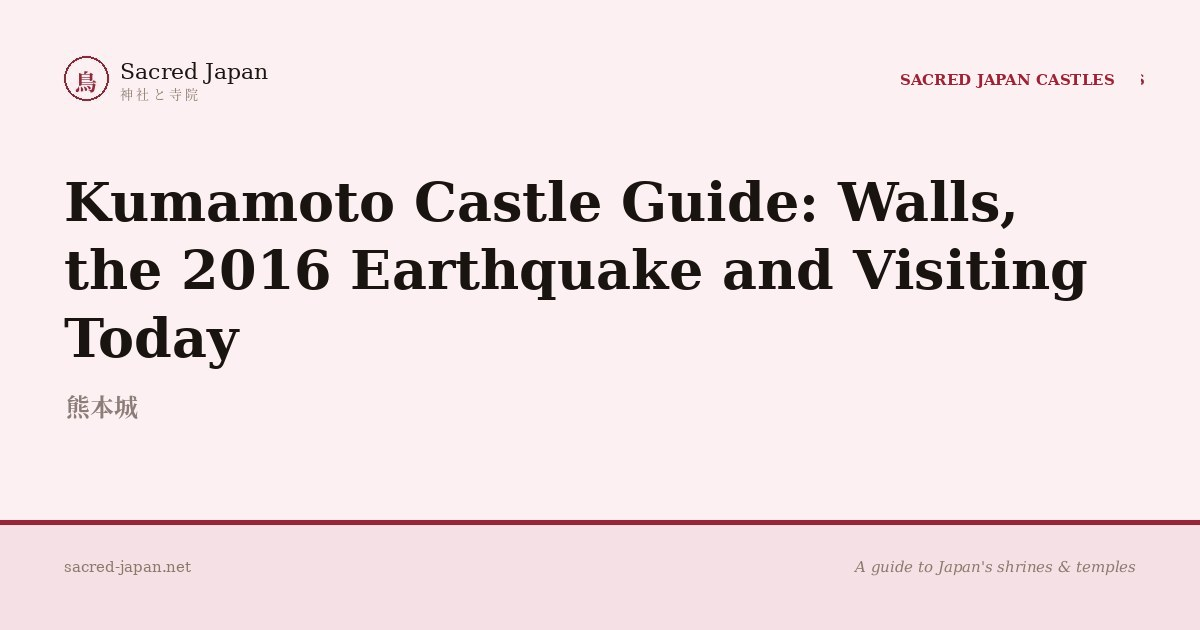
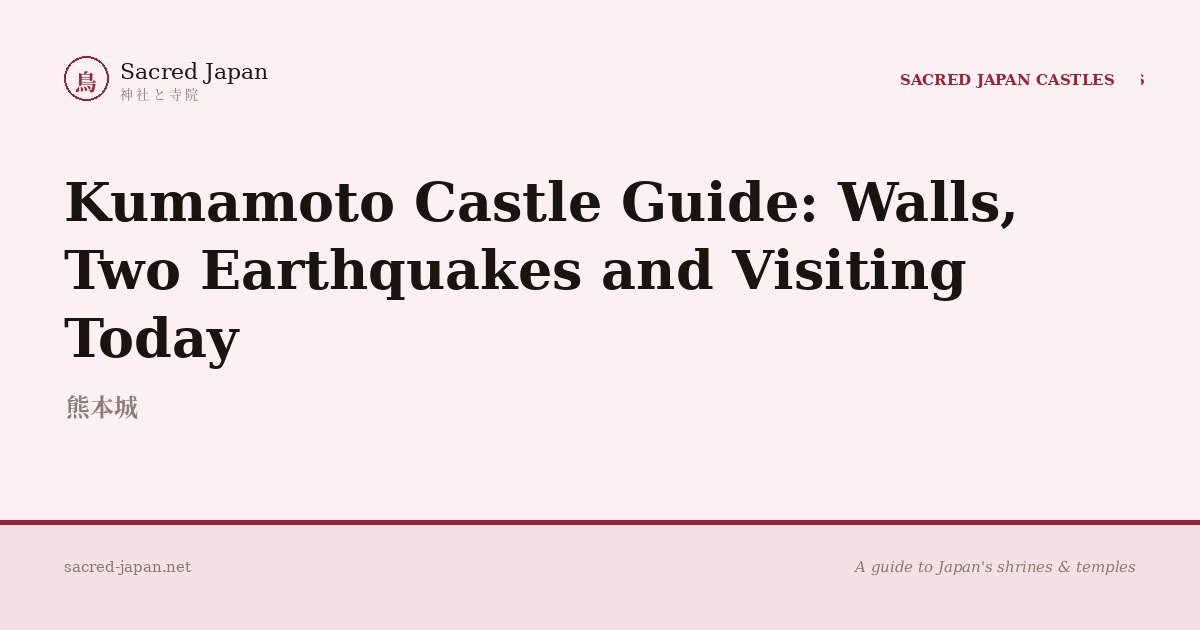
Kumamoto Castle: add July 2026 earthquake section, 6 photos, update title/FAQ/hubs
Claude-Session: https://claude.ai/code/session_01EpyvmJaAWoN52Wmz9c73wc

Changed region(s): [[0.0308, 0.3921, 0.925, 0.4825]]

diff --git a/guides/kumamoto-castle/index.html b/guides/kumamoto-castle/index.html
@@ -5,8 +5,8 @@
 <meta name="viewport" content="width=device-width, initial-scale=1.0">
 
 <!-- ── PRIMARY SEO ── -->
-<title>Kumamoto Castle Guide: Walls, the 2016 Earthquake and Visiting Today | Sacred Japan</title>
-<meta name="description" content="A licensed guide's guide to Kumamoto Castle: Kato Kiyomasa's curved stone walls, the 1877 fire, the 2016 earthquake, the long restoration, and what you can see and do when you visit.">
+<title>Kumamoto Castle Guide: Walls, Two Earthquakes and Visiting Today | Sacred Japan</title>
+<meta name="description" content="A licensed guide's guide to Kumamoto Castle: Kato Kiyomasa's curved stone walls, the 1877 fire, the earthquakes of 2016 and 2026, the long restoration, and what you can see and do when you visit.">
 <meta name="keywords" content="Kumamoto Castle, Kumamoto Castle guide, Kumamoto Castle earthquake, Kumamoto Castle restoration, Kato Kiyomasa, Kumamoto Castle admission, musha-gaeshi, Kyushu castle">
 <meta name="author" content="Sacred Japan">
 <link rel="canonical" href="https://sacred-japan.net/guides/kumamoto-castle/">
@@ -16,8 +16,8 @@
 <!-- ── OPEN GRAPH ── -->
 <meta property="og:type" content="article">
 <meta property="og:url" content="https://sacred-japan.net/guides/kumamoto-castle/">
-<meta property="og:title" content="Kumamoto Castle Guide: Walls, the 2016 Earthquake and Visiting Today">
-<meta property="og:description" content="A licensed guide's guide to Kumamoto Castle: Kato Kiyomasa's curved stone walls, the 1877 fire, the 2016 earthquake, the long restoration, and what you can see and do when you visit.">
+<meta property="og:title" content="Kumamoto Castle Guide: Walls, Two Earthquakes and Visiting Today">
+<meta property="og:description" content="A licensed guide's guide to Kumamoto Castle: Kato Kiyomasa's curved stone walls, the 1877 fire, the earthquakes of 2016 and 2026, the long restoration, and what you can see and do when you visit.">
 <meta property="og:image" content="https://sacred-japan.net/images/og/og-guides-kumamoto-castle.jpg">
 <meta property="og:image:width" content="1200">
 <meta property="og:image:height" content="630">
@@ -27,8 +27,8 @@
 <!-- ── TWITTER CARD ── -->
 <meta name="twitter:card" content="summary_large_image">
 <meta name="twitter:site" content="@sacredjapan">
-<meta name="twitter:title" content="Kumamoto Castle Guide: Walls, the 2016 Earthquake and Visiting Today">
-<meta name="twitter:description" content="A licensed guide's guide to Kumamoto Castle: Kato Kiyomasa's curved stone walls, the 1877 fire, the 2016 earthquake, the long restoration, and what you can see and do when you visit.">
+<meta name="twitter:title" content="Kumamoto Castle Guide: Walls, Two Earthquakes and Visiting Today">
+<meta name="twitter:description" content="A licensed guide's guide to Kumamoto Castle: Kato Kiyomasa's curved stone walls, the 1877 fire, the earthquakes of 2016 and 2026, the long restoration, and what you can see and do when you visit.">
 <meta name="twitter:image" content="https://sacred-japan.net/images/og/og-guides-kumamoto-castle.jpg">
 
 <!-- ── STRUCTURED DATA: Article ── -->
@@ -36,8 +36,8 @@
 {
   "@context": "https://schema.org",
   "@type": "Article",
-  "headline": "Kumamoto Castle Guide: Walls, the 2016 Earthquake and Visiting Today",
-  "description": "A licensed guide's guide to Kumamoto Castle: Kato Kiyomasa's curved stone walls, the 1877 fire, the 2016 earthquake, the long restoration, and what you can see and do when you visit.",
+  "headline": "Kumamoto Castle Guide: Walls, Two Earthquakes and Visiting Today",
+  "description": "A licensed guide's guide to Kumamoto Castle: Kato Kiyomasa's curved stone walls, the 1877 fire, the earthquakes of 2016 and 2026, the long restoration, and what you can see and do when you visit.",
   "url": "https://sacred-japan.net/guides/kumamoto-castle/",
   "mainEntityOfPage": "https://sacred-japan.net/guides/kumamoto-castle/",
   "image": "https://sacred-japan.net/images/og/og-guides-kumamoto-castle.jpg",
@@ -88,10 +88,10 @@
     },
     {
       "@type": "Question",
-      "name": "Is Kumamoto Castle open after the earthquake?",
+      "name": "Is Kumamoto Castle open after the July 2026 earthquake?",
       "acceptedAnswer": {
         "@type": "Answer",
-        "text": "Yes, parts of it are. The main keep has been restored and is open, and a tour route lets you walk the grounds. Some structures are still closed or open only on certain days, so check the official site before your visit."
+        "text": "The castle reopened on August 13, 2026, 16 days after the July 28 earthquake. The earthquake collapsed stone walls in 40 places and cracked floors in the main keep, so some areas may be closed or restricted. Please check the official site before your visit."
       }
     },
     {
@@ -99,7 +99,7 @@
       "name": "Is the keep original?",
       "acceptedAnswer": {
         "@type": "Answer",
-        "text": "No. The main keep is a concrete reconstruction from 1960. The original burned in 1877. Some other structures are original and were damaged in 2016, and some are rebuilt."
+        "text": "No. The main keep is a concrete reconstruction from 1960. The original burned in 1877. Some other structures are original and were damaged in 2016, and some are rebuilt. Both the 2016 and 2026 earthquakes damaged the site."
       }
     },
     {
@@ -107,7 +107,7 @@
       "name": "When will the restoration be finished?",
       "acceptedAnswer": {
         "@type": "Answer",
-        "text": "The city's current target is 2052, after a delay announced in 2022. The original target was 2037."
+        "text": "The target set in 2022 is 2052, delayed from 2037. After the July 2026 earthquake, officials said it could be delayed again but could not yet say by how much."
       }
     },
     {
@@ -974,6 +974,7 @@ article ul li, article ol li { font-size: 19px; }
       <li><a href="#history">Kato Kiyomasa's Fortress</a></li>
       <li><a href="#walls">The Walls Called Warrior Repellers</a></li>
       <li><a href="#quake">April 2016</a></li>
+      <li><a href="#again">July 2026: Shaken Again</a></li>
       <li><a href="#restoration">A Restoration You Can Walk Through</a></li>
       <li><a href="#visit">Visiting Kumamoto Castle</a></li>
       <li><a href="#stay">Making It a Day Trip</a></li>
@@ -985,24 +986,58 @@ article ul li, article ol li { font-size: 19px; }
   <article>
 
     <section id="opening">
-      <p class="opening">As a licensed guide, I tell guests that Kumamoto is the castle where you can see two eras at once. The stone walls are curved like the inside of a bowl, so steeply that they were nicknamed "warrior repellers." Many of them were also shaken apart in April 2016, and today you can walk past the numbered stones waiting to go back. It is one of Japan's Three Great Castles, and one of its most honest.</p>
-      <p>This guide covers Kato Kiyomasa's design, the fire of 1877, the 2016 earthquake, how the restoration works, and what to know before you go.</p>
+      <p class="opening">As a licensed guide, I tell guests that Kumamoto is the castle where you can see two eras at once. The stone walls are curved like the inside of a bowl, so steeply that they were nicknamed "warrior repellers." Many of them were shaken apart in April 2016, and again in July 2026, and today you can walk past the numbered stones waiting to go back. It is one of Japan's Three Great Castles, and one of its most honest.</p>
+      <p>This guide covers Kato Kiyomasa's design, the fire of 1877, the earthquakes of 2016 and 2026, how the restoration works, and what to know before you go.</p>
     </section>
 
     <h2 id="history">Kato Kiyomasa's Fortress<span class="h2-jp">歴史</span></h2>
     <p>Kato Kiyomasa, a retainer of Toyotomi Hideyoshi, became lord of Higo Province in 1588. Between 1601 and 1607 he expanded the castle on the Chausuyama hill into a huge complex with 49 turrets, 18 turret gates and 29 smaller gates, according to Wikipedia. After the Kato family was dispossessed by the shogunate, the Hosokawa clan took over in 1632 and held the castle until 1871.</p><p>The castle was also known as Ginkgo Castle, because many ginkgo trees were planted when it was built, according to GLTJP. For the wider picture of the twelve original keeps, see my <a class="inline-link" href="/castles/" onclick="trackEvent('click','internal','guide_kumamoto_to_castles')">castles overview</a>, and for the stories behind four great castles, <a class="inline-link" href="/guides/best-castles-japan/" onclick="trackEvent('click','internal','guide_kumamoto_to_bestcastles')">The Best Castles in Japan</a>.</p>
 
+    <figure style="margin:28px auto;max-width:560px;">
+      <picture><source srcset="/images/kumamoto-towers.webp" type="image/webp"><img src="/images/kumamoto-towers.jpg" alt="The small keep, the Uto turret and the large keep of Kumamoto Castle, with black walls and layered roofs" width="840" height="560" loading="lazy" style="width:100%;height:auto;border-radius:4px;display:block;"></picture>
+      <figcaption style="font-size:13px;color:var(--enshu);margin-top:10px;text-align:center;line-height:1.6;">The small keep, the Uto turret and the large keep, photographed in 2014, before the earthquakes.<br>Photo: Nagoya Taro, <a href="https://creativecommons.org/licenses/by-sa/3.0/" target="_blank" rel="noopener" style="color:var(--enshu);">CC BY-SA 3.0</a>, via Wikimedia Commons (cropped and resized)</figcaption>
+    </figure>
+
     <h2 id="walls">The Walls Called Warrior Repellers<span class="h2-jp">武者返し</span></h2>
     <p>The famous feature is the stone wall. It starts with a gentle slope and curves upward until it is nearly vertical, which is why it is called <em>musha-gaeshi</em>, "warrior repeller." The idea is simple: a climber who starts easily runs out of footholds near the top. Wikipedia also lists wooden overhangs and rock falls among the defenses. The winding approach paths add to the effect.</p><p>The castle held out in 1877, during the Satsuma Rebellion, when Saigo Takamori's forces besieged it. A fire then destroyed the keep and other buildings. Saigo is quoted in Wikipedia as saying, "I did not lose to the Meiji government. I lost to Lord Kiyomasa." The present main keep is a concrete reconstruction from 1960, and the castle was designated a Special Historic Site in 1955.</p>
+
+    <div style="display:flex;flex-wrap:wrap;gap:20px;justify-content:center;align-items:flex-start;margin:32px 0;">
+      <figure style="margin:0;flex:1 1 260px;max-width:420px;">
+      <picture><source srcset="/images/kumamoto-keep-wall.webp" type="image/webp"><img src="/images/kumamoto-keep-wall.jpg" alt="The keep of Kumamoto Castle rising above a flared stone wall under a blue sky" width="840" height="560" loading="lazy" style="width:100%;height:auto;border-radius:4px;display:block;"></picture>
+      <figcaption style="font-size:13px;color:var(--enshu);margin-top:10px;text-align:center;line-height:1.6;">The keep above the stone walls, photographed in 2009, before the earthquakes.<br>Photo: 663highland, <a href="https://creativecommons.org/licenses/by-sa/3.0/" target="_blank" rel="noopener" style="color:var(--enshu);">CC BY-SA 3.0</a>, via Wikimedia Commons (cropped and resized)</figcaption>
+    </figure>
+      <figure style="margin:0;flex:1 1 260px;max-width:420px;">
+      <picture><source srcset="/images/kumamoto-turret-wall.webp" type="image/webp"><img src="/images/kumamoto-turret-wall.jpg" alt="A turret of Kumamoto Castle standing on a tall stone base that flares outward at the bottom" width="840" height="560" loading="lazy" style="width:100%;height:auto;border-radius:4px;display:block;"></picture>
+      <figcaption style="font-size:13px;color:var(--enshu);margin-top:10px;text-align:center;line-height:1.6;">A turret on a tall, flared stone base, photographed in 2009, before the earthquakes.<br>Photo: 663highland, <a href="https://creativecommons.org/licenses/by-sa/3.0/" target="_blank" rel="noopener" style="color:var(--enshu);">CC BY-SA 3.0</a>, via Wikimedia Commons (cropped and resized)</figcaption>
+    </figure>
+    </div>
 
     <h2 id="quake">April 2016<span class="h2-jp">熊本地震</span></h2>
     <p>In April 2016, a series of earthquakes struck Kumamoto, with the strongest reaching seismic intensity 7. All 13 Important Cultural Property structures at the castle were damaged. Most of the roof tiles on the top floor of the keep fell, and roughly a third of the stone walls collapsed. Wikipedia notes that the keep itself survived with little structural damage.</p><p>The image most people remember is the Iidamaru five-story turret, whose lower walls collapsed but which kept standing, held up by its corner stones. Repair work began in June 2016, and new roof ornaments (shachihoko) were installed on the keep in 2018.</p>
 
+    <figure style="margin:28px auto;max-width:560px;">
+      <picture><source srcset="/images/kumamoto-keep-group.webp" type="image/webp"><img src="/images/kumamoto-keep-group.jpg" alt="Visitors gathered at the foot of the main keep of Kumamoto Castle, dwarfed by the stone base" width="840" height="560" loading="lazy" style="width:100%;height:auto;border-radius:4px;display:block;"></picture>
+      <figcaption style="font-size:13px;color:var(--enshu);margin-top:10px;text-align:center;line-height:1.6;">Visitors at the foot of the main keep, photographed in 2014, before the earthquakes.<br>Photo: Fraxinus2, <a href="https://creativecommons.org/licenses/by-sa/4.0/" target="_blank" rel="noopener" style="color:var(--enshu);">CC BY-SA 4.0</a>, via Wikimedia Commons (cropped and resized)</figcaption>
+    </figure>
+
+    <h2 id="again">July 2026: Shaken Again<span class="h2-jp">2026年7月</span></h2>
+    <p>On July 28, 2026, a magnitude 7.1 earthquake (preliminary figure) struck Kumamoto Prefecture, with its epicenter near Uki and a maximum intensity of 7 in Uki and Hikawa, according to GIGAZINE's summary of the JMA announcement. The castle was closed for 16 days. According to the city's castle office, as reported by The Star, stone walls collapsed in 40 locations and structural damage was confirmed in 11 places, including cracked floors in the main keep.</p><p>The castle reopened on August 13, 2026, with about 200 people lined up before the gates opened. Officials told The Art Newspaper that the 2052 completion date could be delayed, but that they could not yet estimate by how much. I have not seen a detailed list of what is open, so please check current access before you plan your visit.</p>
+
+    <figure style="margin:28px auto;max-width:560px;">
+      <picture><source srcset="/images/kumamoto-collapse-2026.webp" type="image/webp"><img src="/images/kumamoto-collapse-2026.jpg" alt="A collapsed section of stone wall at Kumamoto Castle with fallen stones lying on the grass below" width="840" height="560" loading="lazy" style="width:100%;height:auto;border-radius:4px;display:block;"></picture>
+      <figcaption style="font-size:13px;color:var(--enshu);margin-top:10px;text-align:center;line-height:1.6;">Collapsed stone wall at the Nishi-demaru after the July 2026 earthquake, photographed on August 29, 2026.<br>Photo: Katorisi, <a href="https://creativecommons.org/licenses/by-sa/4.0/" target="_blank" rel="noopener" style="color:var(--enshu);">CC BY-SA 4.0</a>, via Wikimedia Commons (cropped and resized)</figcaption>
+    </figure>
+
     <h2 id="restoration">A Restoration You Can Walk Through<span class="h2-jp">復旧</span></h2>
-    <p>Nobody can rebuild a stone wall in a few years. The stones are being numbered, stored and put back one by one, using older techniques so that the walls return to their earlier forms. In 2022, the mayor announced that the full restoration would be completed in 2052 instead of 2037, a delay of 15 years.</p><p>As of early 2025, GLTJP says the main keep, the Kenmotsu turret and a long wall have been restored, while the Honmaru Palace Great Hall, the Uto turret and the Iidamaru turret are still under restoration. The tour route has explanation boards that show photos from before the quake next to the present scene, so you see exactly what changed. It is the one castle where I tell guests not to rush: the work in progress is part of the visit.</p>
+    <p>Nobody can rebuild a stone wall in a few years. The stones are being numbered, stored and put back one by one, using older techniques so that the walls return to their earlier forms. In 2022, the mayor announced that the full restoration would be completed in 2052 instead of 2037, a delay of 15 years. The 2026 earthquake may push that date back again.</p><p>Before the 2026 quake, as of early 2025, GLTJP said the main keep, the Kenmotsu turret and a long wall had been restored, while the Honmaru Palace Great Hall, the Uto turret and the Iidamaru turret were still under restoration. The tour route has explanation boards that show photos from before the earthquake next to the present scene, so you see exactly what changed. It is the one castle where I tell guests not to rush: the work in progress is part of the visit.</p>
 
     <h2 id="visit">Visiting Kumamoto Castle<span class="h2-jp">アクセス</span></h2>
-    <ul class="practical-list"><li><strong>Getting there:</strong> From Kumamoto Station, the streetcar, the Shiromegurin sightseeing loop bus or a local bus all reach the castle area in roughly 20 to 30 minutes, followed by a walk of about 10 minutes. From Aso Kumamoto Airport, an airport limousine bus takes about an hour.</li><li><strong>Hours:</strong> One recent guide lists 9:00 to 17:00, closed December 29.</li><li><strong>Admission:</strong> The same guide lists 800 yen for adults and high school students, and 300 yen for elementary and junior high students. Preschool children are free.</li><li><strong>What is open:</strong> The main keep houses a history museum, with a view over the city from the top floor. Some structures are closed or open only on set days while work continues, for example the Uto turret on the second Sunday of each month, according to GLTJP. Please check current access before you go.</li><li><strong>Seasons:</strong> About 800 cherry trees, best from late March to early April, lit at night. Autumn color usually peaks from mid-November to early December.</li><li><strong>Nearby:</strong> The Hosokawa Gyobu-tei residence, a traditional wooden mansion with a Japanese garden, is in nearby Sannomaru Park.</li></ul><p>Prices, hours and the open areas change with the work, so please confirm on the official castle site before you go.</p>
+    <ul class="practical-list"><li><strong>Getting there:</strong> From Kumamoto Station, the streetcar, the Shiromegurin sightseeing loop bus or a local bus all reach the castle area in roughly 20 to 30 minutes, followed by a walk of about 10 minutes. From Aso Kumamoto Airport, an airport limousine bus takes about an hour.</li><li><strong>Hours:</strong> One recent guide lists 9:00 to 17:00, closed December 29.</li><li><strong>Admission:</strong> The same guide lists 800 yen for adults and high school students, and 300 yen for elementary and junior high students. Preschool children are free.</li><li><strong>What is open:</strong> The main keep houses a history museum, with a view over the city from the top floor. Some structures are closed or open only on set days while work continues, for example the Uto turret on the second Sunday of each month, according to GLTJP, and the July 2026 earthquake may have changed this. Please check current access before you go.</li><li><strong>Seasons:</strong> About 800 cherry trees, best from late March to early April, lit at night. Autumn color usually peaks from mid-November to early December.</li><li><strong>Nearby:</strong> The Hosokawa Gyobu-tei residence, a traditional wooden mansion with a Japanese garden, is in nearby Sannomaru Park.</li></ul><p>Prices, hours and the open areas change with the work, so please confirm on the official castle site before you go.</p>
+
+    <figure style="margin:28px auto;max-width:560px;">
+      <picture><source srcset="/images/kumamoto-keep-plaza.webp" type="image/webp"><img src="/images/kumamoto-keep-plaza.jpg" alt="The main keep and a small turret of Kumamoto Castle seen across a gravel plaza, with a mascot photo spot in front" width="840" height="560" loading="lazy" style="width:100%;height:auto;border-radius:4px;display:block;"></picture>
+      <figcaption style="font-size:13px;color:var(--enshu);margin-top:10px;text-align:center;line-height:1.6;">The main keep and small keep seen across the plaza, photographed in 2014, with a Hikomaru-kun photo spot in front.<br>Photo: そらみみ (Soramimi), <a href="https://creativecommons.org/licenses/by-sa/3.0/" target="_blank" rel="noopener" style="color:var(--enshu);">CC BY-SA 3.0</a>, via Wikimedia Commons (cropped and resized)</figcaption>
+    </figure>
 
     <h2 id="stay">Making It a Day Trip<span class="h2-jp">滞在</span></h2>
     <p>Kumamoto works well as a half-day stop on a Kyushu trip, and it is close to the Shinkansen. Give yourself time for the castle grounds and the nearby garden.</p>
@@ -1017,16 +1052,16 @@ article ul li, article ol li { font-size: 19px; }
         <div class="faq-answer">One recent guide lists 800 yen for adults and high school students, and 300 yen for elementary and junior high students, with preschoolers free. Please confirm on the official site, because prices and open areas can change.</div>
     </details>
     <details class="faq-item">
-        <summary>Is Kumamoto Castle open after the earthquake?</summary>
-        <div class="faq-answer">Yes, parts of it are. The main keep has been restored and is open, and a tour route lets you walk the grounds. Some structures are still closed or open only on certain days, so check the official site before your visit.</div>
+        <summary>Is Kumamoto Castle open after the July 2026 earthquake?</summary>
+        <div class="faq-answer">The castle reopened on August 13, 2026, 16 days after the July 28 earthquake. The earthquake collapsed stone walls in 40 places and cracked floors in the main keep, so some areas may be closed or restricted. Please check the official site before your visit.</div>
     </details>
     <details class="faq-item">
         <summary>Is the keep original?</summary>
-        <div class="faq-answer">No. The main keep is a concrete reconstruction from 1960. The original burned in 1877. Some other structures are original and were damaged in 2016, and some are rebuilt.</div>
+        <div class="faq-answer">No. The main keep is a concrete reconstruction from 1960. The original burned in 1877. Some other structures are original and were damaged in 2016, and some are rebuilt. Both the 2016 and 2026 earthquakes damaged the site.</div>
     </details>
     <details class="faq-item">
         <summary>When will the restoration be finished?</summary>
-        <div class="faq-answer">The city's current target is 2052, after a delay announced in 2022. The original target was 2037.</div>
+        <div class="faq-answer">The target set in 2022 is 2052, delayed from 2037. After the July 2026 earthquake, officials said it could be delayed again but could not yet say by how much.</div>
     </details>
     <details class="faq-item">
         <summary>How long should I spend at Kumamoto Castle?</summary>
@@ -1076,7 +1111,7 @@ article ul li, article ol li { font-size: 19px; }
 
 <!-- ── SOURCES NOTE ── -->
 <div class="sources-note">
-  Sources verified at time of writing: <a href="https://www.gltjp.com/en/article/item/20888/" target="_blank" rel="noopener" style="color:var(--beni);text-decoration:underline;">GLTJP (Kumamoto Castle Travel Guide)</a>, <a href="https://en.wikipedia.org/wiki/Kumamoto_Castle" target="_blank" rel="noopener" style="color:var(--beni);text-decoration:underline;">Wikipedia (Kumamoto Castle)</a>, <a href="https://castle.kumamoto-guide.jp/en/spot/" target="_blank" rel="noopener" style="color:var(--beni);text-decoration:underline;">Kumamoto Castle Reconstruction Tour Route</a>, <a href="https://www.nippon.com/en/japan-video/vi004002/kumamoto-castle-comes-back-to-life-touring-the-grounds-during-reconstruction.html" target="_blank" rel="noopener" style="color:var(--beni);text-decoration:underline;">Nippon.com (Touring the Grounds During Reconstruction)</a>. Hours, prices and availability change, so please confirm before you go.
+  Sources verified at time of writing: <a href="https://www.theartnewspaper.com/2026/07/31/japans-400-year-old-kumamoto-castle-damaged-by-71-magnitude-earthquake" target="_blank" rel="noopener" style="color:var(--beni);text-decoration:underline;">The Art Newspaper (July 2026 earthquake)</a>, <a href="https://www.thestar.com.my/aseanplus/aseanplus-news/2026/08/13/kumamoto-castle-reopens-16-days-after-major-earthquake" target="_blank" rel="noopener" style="color:var(--beni);text-decoration:underline;">The Star (reopening)</a>, <a href="https://gigazine.net/gsc_news/en/20260728-earthquake-kumamoto/" target="_blank" rel="noopener" style="color:var(--beni);text-decoration:underline;">GIGAZINE (earthquake summary)</a>, <a href="https://www.gltjp.com/en/article/item/20888/" target="_blank" rel="noopener" style="color:var(--beni);text-decoration:underline;">GLTJP (Kumamoto Castle Travel Guide)</a>, <a href="https://en.wikipedia.org/wiki/Kumamoto_Castle" target="_blank" rel="noopener" style="color:var(--beni);text-decoration:underline;">Wikipedia (Kumamoto Castle)</a>, <a href="https://castle.kumamoto-guide.jp/en/spot/" target="_blank" rel="noopener" style="color:var(--beni);text-decoration:underline;">Kumamoto Castle Reconstruction Tour Route</a>, <a href="https://www.nippon.com/en/japan-video/vi004002/kumamoto-castle-comes-back-to-life-touring-the-grounds-during-reconstruction.html" target="_blank" rel="noopener" style="color:var(--beni);text-decoration:underline;">Nippon.com (Touring the Grounds During Reconstruction)</a>. Hours, prices and availability change, so please confirm before you go.
 </div>
 
 <!-- ── FOOTER ── -->

diff --git a/guides/index.html b/guides/index.html
@@ -121,7 +121,7 @@
       {"@type":"ListItem","position":68,"url":"https://sacred-japan.net/guides/wajima-nuri/","name":"Wajima-nuri: Japan's Lacquerware and the Road Back"},
       {"@type":"ListItem","position":69,"url":"https://sacred-japan.net/guides/himeji-castle/","name":"Himeji Castle Guide: History, Maze Defenses and Visiting Tips"},
       {"@type":"ListItem","position":70,"url":"https://sacred-japan.net/guides/matsumoto-castle/","name":"Matsumoto Castle Guide: The Black Castle, Its History and Visiting Tips"},
-      {"@type":"ListItem","position":71,"url":"https://sacred-japan.net/guides/kumamoto-castle/","name":"Kumamoto Castle Guide: Walls, the 2016 Earthquake and Visiting Today"}
+      {"@type":"ListItem","position":71,"url":"https://sacred-japan.net/guides/kumamoto-castle/","name":"Kumamoto Castle Guide: Walls, Two Earthquakes and Visiting Today"}
     ]
   }
 }
@@ -1141,7 +1141,7 @@ main { max-width: 1100px; }
     <a class="hub-card" href="/guides/kumamoto-castle/" onclick="trackEvent('click','internal','guides_hub_to_kumamoto_castle')" style="border-top:3px solid #1a2a4a;">
       <div class="hub-card-label" style="color:#1a2a4a;">CASTLES ／ 熊本城</div>
       <div class="hub-card-title">🏯 Kumamoto Castle: The Fortress Being Rebuilt →</div>
-      <div class="hub-card-desc">Kato Kiyomasa's curved walls, the 2016 earthquake, the long restoration, and what you can visit today.</div>
+      <div class="hub-card-desc">Kato Kiyomasa's curved walls, the earthquakes of 2016 and 2026, the long restoration, and what you can visit today.</div>
     </a>
 
   </div>

diff --git a/castles/index.html b/castles/index.html
@@ -823,7 +823,7 @@ footer { padding: 40px 24px; }
     <a href="/guides/kumamoto-castle/" onclick="trackEvent('click','internal','castles_top_to_kumamoto')" style="display:block;margin-top:14px;padding:26px 30px;background:var(--washi);border:1px solid var(--border-strong);border-left:3px solid #1a2a4a;text-decoration:none;border-radius:2px;">
       <div style="font-family:'Noto Serif JP',serif;font-size:10px;letter-spacing:3px;color:#1a2a4a;margin-bottom:6px;">SACRED JAPAN ／ CASTLE GUIDE</div>
       <div style="font-family:'Shippori Mincho',serif;font-size:17px;color:var(--sumi);margin-bottom:4px;">🏯 Kumamoto Castle: The Fortress Being Rebuilt →</div>
-      <div style="font-size:14px;color:var(--enshu);line-height:1.6;">Curved warrior-repelling walls, the 2016 earthquake, and a restoration you can walk through. History and how to visit.</div>
+      <div style="font-size:14px;color:var(--enshu);line-height:1.6;">Curved warrior-repelling walls, two earthquakes, and a restoration you can walk through. History and how to visit.</div>
     </a>
   </section>
 

diff --git a/CLAUDE.md b/CLAUDE.md
@@ -158,3 +158,5 @@
 - 【未対応】インデックス登録（guides/himeji-castle/、/castles/）。次の候補：松本城、熊本城、犬山城、彦根城、二条城（京都）
 - 新規：guides/matsumoto-castle/（Wikipedia／GLTJP／Go Nagano／Nagano Tabiで裏取り。料金はGLTJPの電子券1,200円・紙1,300円を「最近のガイド」として記載、公式確認を促す表記）。ヒーローはbest-castles-japanと同じManishprabhune写真（CC BY 4.0）。ハブ・JSON-LD(position 70)・sitemap・OGP・城ハブ上部カード反映済み。【2026-11-01 写真追加済み】鎧レプリカ(lumoplank CC0)／天守内部・月見櫓内部(z tanuki CC BY 3.0)／月見櫓の窓(KimonBerlin CC BY-SA 2.0)／雪(Beggerly CC BY 2.0)／雪囲い(Japanexperterna CC BY-SA 3.0)／アルプスと天守(tsuruta yosuke CC BY 2.0)。Fg2のPD写真は青枠注釈入りのため未使用。【未対応】インデックス登録。次の候補：熊本城、犬山城、彦根城、二条城
 - 新規：guides/kumamoto-castle/（GLTJP／Wikipedia／熊本城復旧見学ルート公式／Nippon.comで裏取り。料金800円・9:00-17:00・12/29休はGLTJP引用で「公式確認」表記。復旧完了目標2052年。ヒーローはbest-castles-japanと同じ663highland写真 CC BY-SA 3.0）。ハブ・JSON-LD(position 71)・sitemap・OGP・城ハブ上部カード反映済み。城3本のヒーロー上ラベルの「伝統工芸」残りを「城」に修正。【未対応】本文写真追加、インデックス登録。次の候補：犬山城、彦根城、二条城
+- 熊本城：2026-07-28にM7.1の地震（震源は宇城市付近、最大震度7＝宇城市・氷川町）があり、石垣40か所崩落・11か所に構造被害（天守の床のひびを含む）、16日間閉鎖→8/13再開（The Star／The Art Newspaper／GIGAZINE）。ガイドに「July 2026: Shaken Again」節を追加、タイトルを「Walls, Two Earthquakes and Visiting Today」に変更（OGP再生成、ハブ・JSON-LD反映）。FAQ・復旧目標（2052年は再延期の可能性）も更新。【注意】guides/best-castles-japan/ の熊本城節は2026年地震未反映の可能性。
+- 熊本城 本文写真6枚追加済み（663highland×2 CC BY-SA 3.0／Nagoya Taro CC BY-SA 3.0／Fraxinus2 CC BY-SA 4.0／そらみみ CC BY-SA 3.0／Katorisi 2026崩落の石垣 CC BY-SA 4.0）。663highlandの「人々が歩く石垣」はヒーローと同一のため未使用。【未対応】インデックス登録。次の候補：犬山城、彦根城、二条城
